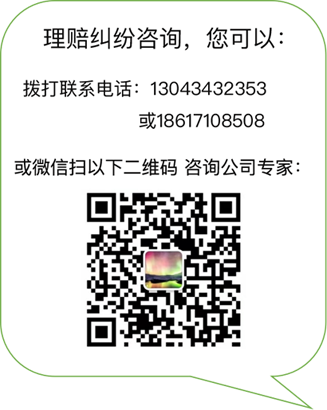
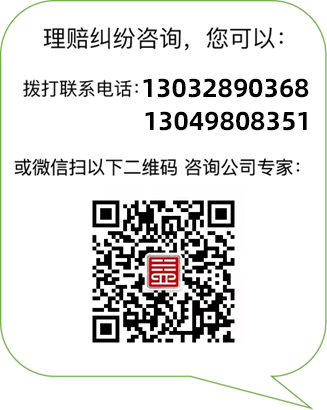
修改联系方式

Changed region(s): [[0.2446, 0.4683, 0.7339, 0.8488], [0.4281, 0.1756, 0.948, 0.322]]

diff --git a/Contact.html b/Contact.html
@@ -13,12 +13,12 @@ published: true
       <h2>联系我们</h2>
       <div class="contact-item mt-5">
         <div><span class="fs-6">联系电话：</span></div>
-        <div><h5>130 4343 2353 / 186 1710 8508</h5></div>
+        <div><h5>130 3289 0368 / 130 4980 8351</h5></div>
        </div>
 
        <div class="contact-item mt-2">
         <div><span class="fs-6">电子邮箱：</span></div>
-        <div><h5>hjyang06@126.com</h5></div>
+        <div><h5>zhangjianfanwmhy@163.com</h5></div>
        </div>
 
        <div class="mt-4"><h5>扫二维码添加微信 线上咨询专家：</h5></div>
